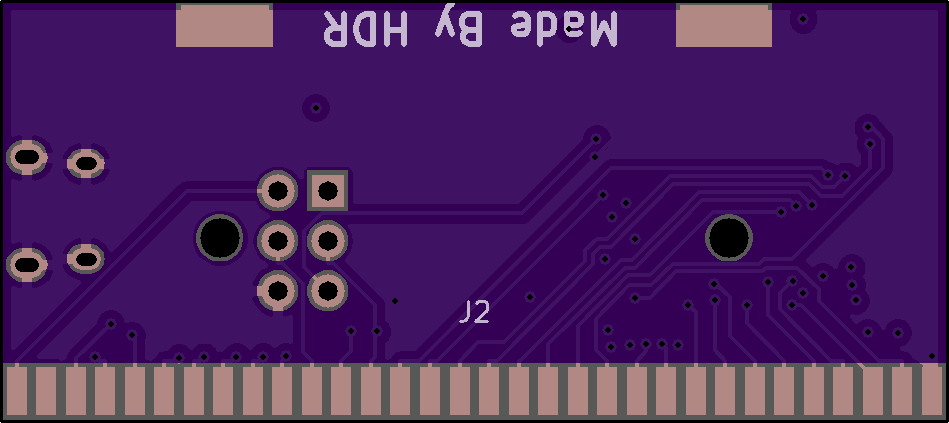
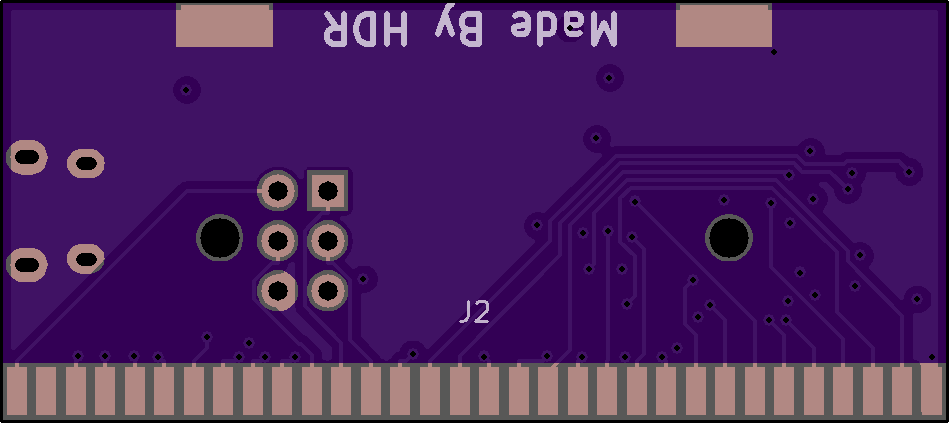
Rev 1.3
- Fixed incorrect crystal footprint

diff --git a/readme.md b/readme.md
@@ -1,7 +1,7 @@
 # The worlds smallest Game Boy cart flasher!
 A clone of [J.Rodrigo's flasher](https://www.tindie.com/products/JRodrigo/cart-flasher-for-gameboy/)
 
-[Purchase on OSHPARK](https://oshpark.com/shared_projects/Ncaqt011)
+[Purchase on OSHPARK](https://oshpark.com/shared_projects/c9gap1j2)
 
 
 ## Images
@@ -74,3 +74,7 @@ avrdude -c USBasp -p atmega8515 -U flash:w:gbcf-2.1.hex -B 6
 - Modified the cart reader footprint
 
 - Replaced the crystal (ECS-60-32-5PXDN-TR) with FQ1045A-6.000 to as this component is only 1.7mm tall instead of 4.3mm
+
+**1.3 Changelog:**
+
+- Fixed incorrect crystal footprint
